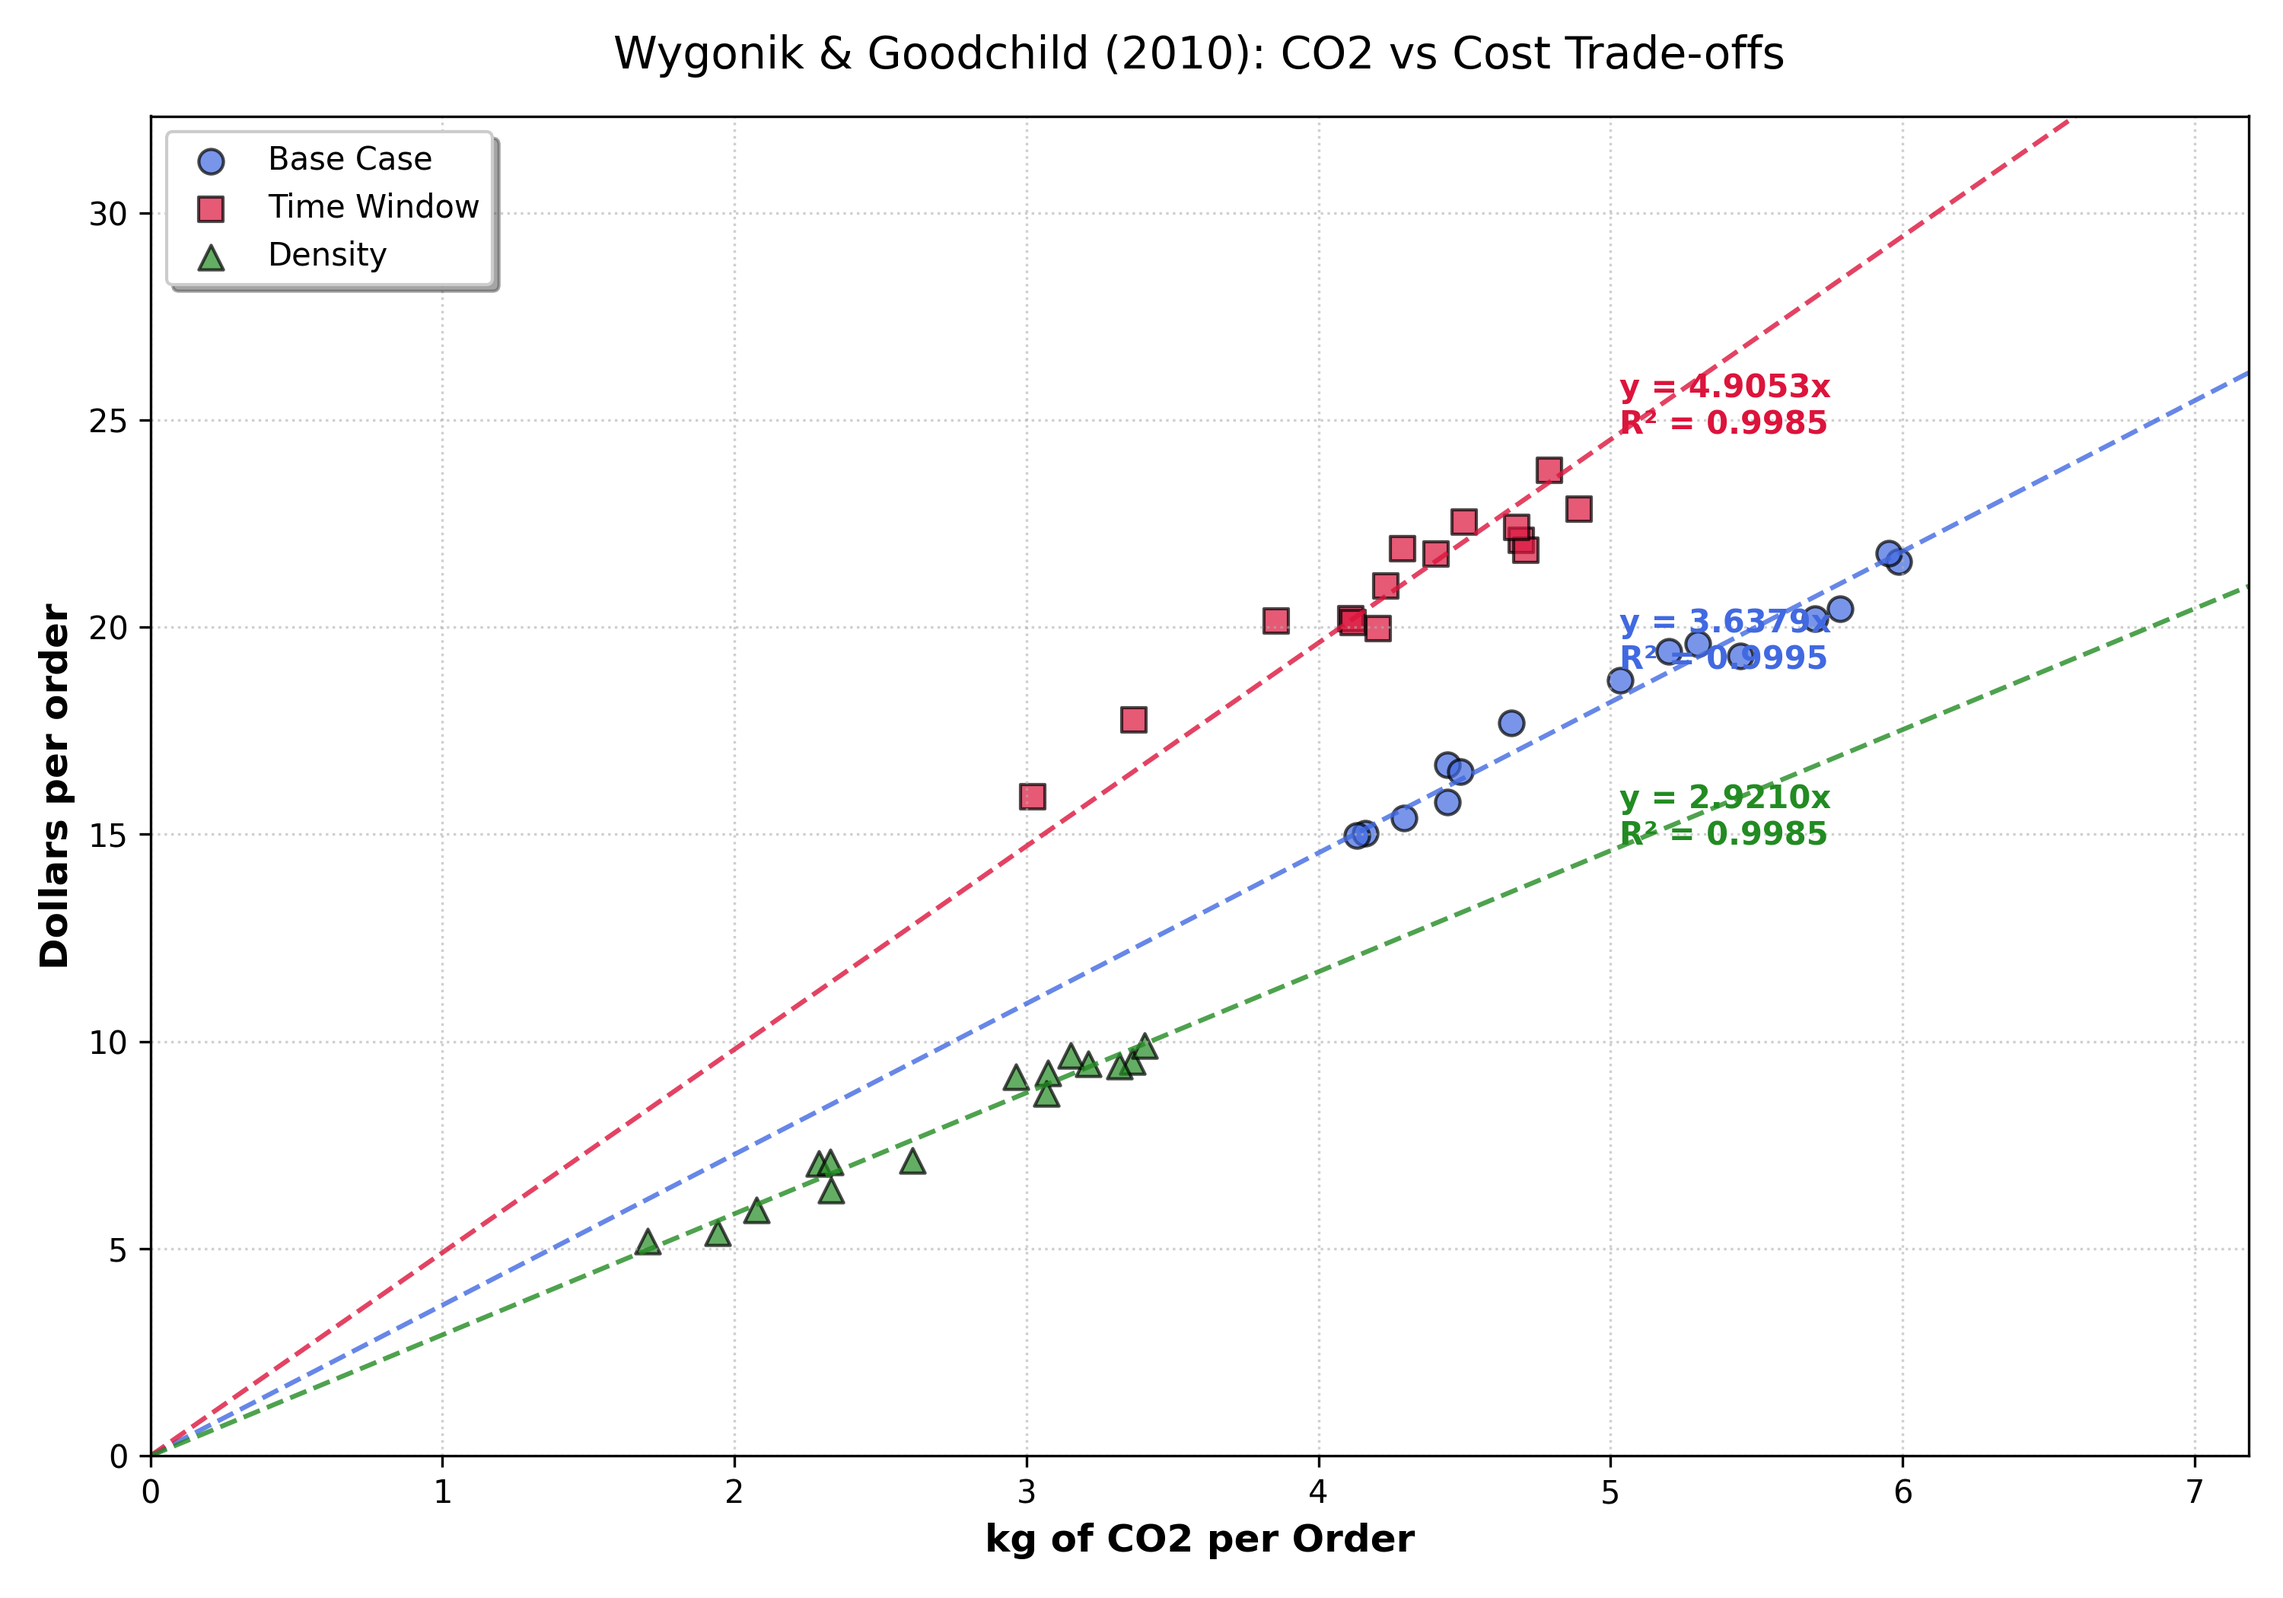
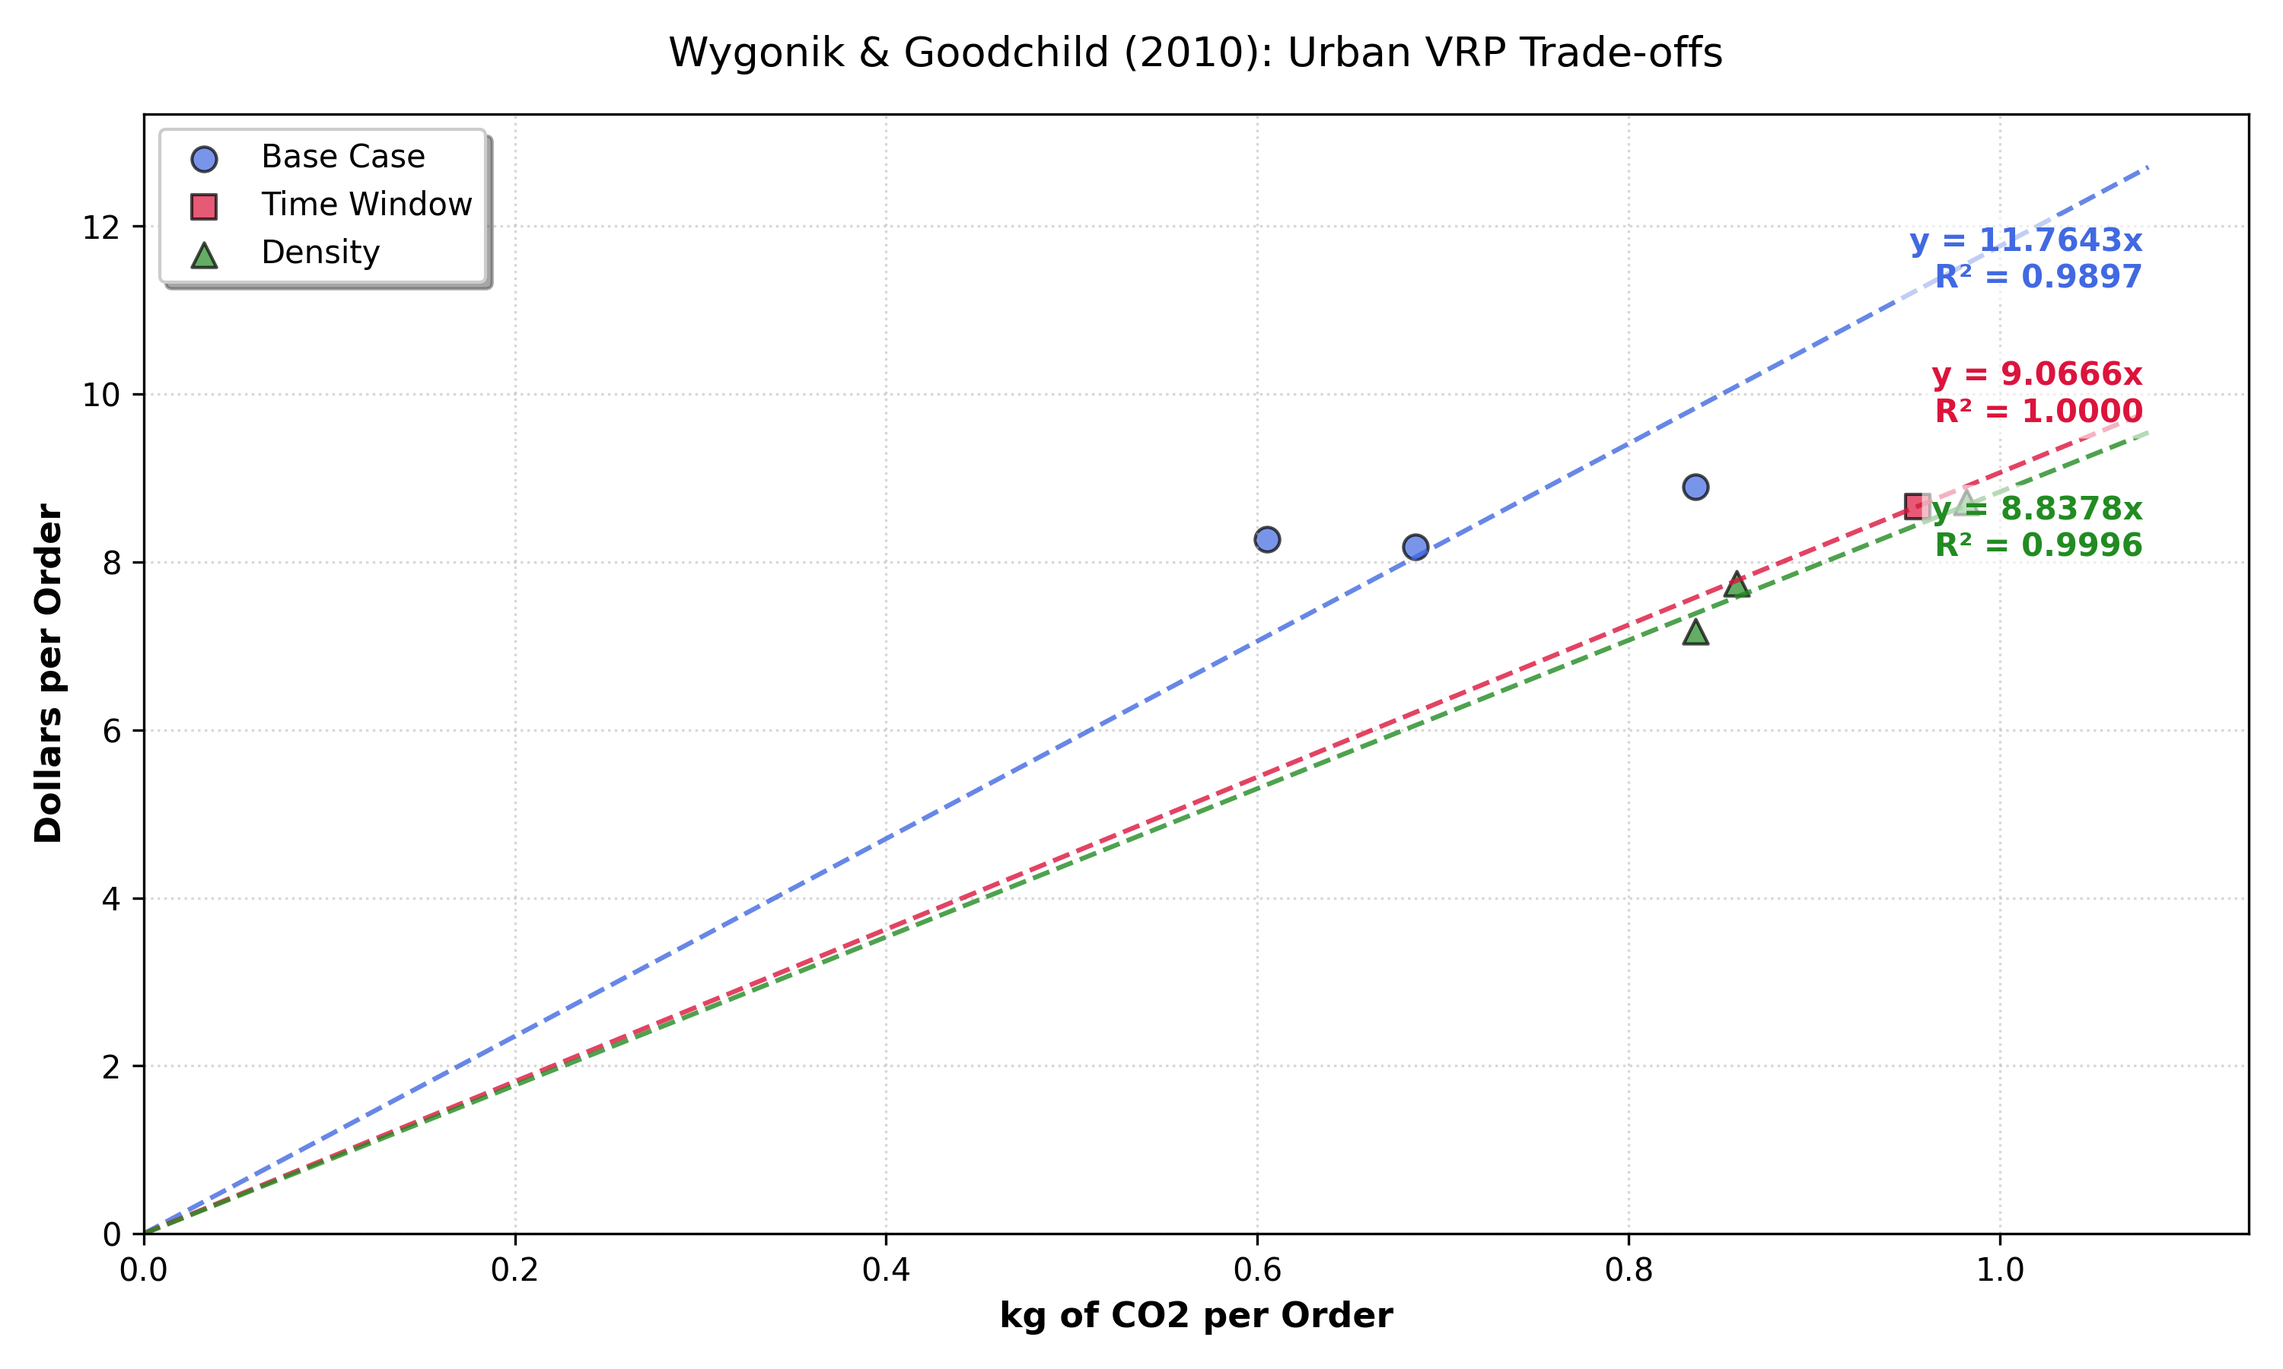
sửa

diff --git a/city_vrp_arcgis/lop_2_network_analyst/dijkstra_ma_tran_od.py b/city_vrp_arcgis/lop_2_network_analyst/dijkstra_ma_tran_od.py
@@ -175,18 +175,16 @@ def tao_ma_tran_od_bang_dijkstra(
     GIAI ĐOẠN 1 (ArcGIS Clone): Dijkstra chạy MỘT LẦN DUY NHẤT để xây dựng
     2 Ma trận OD tĩnh N×N. Tabu Search sau đó chỉ tra cứu 2 mảng này.
 
-    LUỒNG XỬ LÝ:
+    LUỒNG XỬ LÝ (TỐI ƯU HIỆU NĂNG):
     ┌─────────────────────────────────────────────────────────┐
-    │  For i in range(N):                                     │
-    │    For j in range(N):                                   │
-    │      1. Dijkstra(node_i → node_j) → danh_sach_node     │
-    │      2. Tích lũy chiều dài (m) và thời gian (s)        │
-    │      3. Tính chi_phi = hao_mon + luong_tai_xe           │
-    │      4. Tính khi_thai_goc = quang_duong × he_so_MOVES  │
-    │  END Dijkstra (vòng lặp kết thúc hoàn toàn)            │
+    │  For i, node_nguon in enumerate(N):                     │
+    │    1. Single-Source Dijkstra(nguon_i → ALL)             │
+    │       -> Trả về từ điển paths_dict                      │
     │                                                         │
-    │  SAU ĐÓ (ngoài vòng lặp Dijkstra):                     │
-    │    ma_tran_khi_thai_xe = ma_tran_goc × he_so_xe        │
+    │    For j, node_dich in enumerate(N):                    │
+    │      2. Trích xuất đường đi từ paths_dict[node_dich]    │
+    │      3. Tính toán chi phí, khí thải (Logic bóc tách)    │
+    │  End Dijkstra (Tổng cộng N lần gọi thuật toán)         │
     └─────────────────────────────────────────────────────────┘
 
     Tham số:
@@ -220,24 +218,32 @@ def tao_ma_tran_od_bang_dijkstra(
     # VÒNG LẶP DÒ ĐƯỜNG DIJKSTRA
     # (Toàn bộ vòng lặp này PHẢI chạy xong trước khi nhân hệ số xe)
     # ═══════════════════════════════════════════════════════════
-    for i in range(so_diem):
-        for j in range(so_diem):
-            dem += 1
+    # ═══════════════════════════════════════════════════════════
+    # VÒNG LẶP DÒ ĐƯỜNG DIJKSTRA (Nguồn -> Nhiều Đích)
+    # Tối ưu: Chạy Dijkstra 1 lần cho mỗi nguồn thay vì N lần.
+    # ═══════════════════════════════════════════════════════════
+    for i, node_nguon in enumerate(danh_sach_node_osm):
+        # 1. Dijkstra Single-Source: Tìm toàn bộ đường đi từ node_nguon
+        try:
+            # lengths_dict: {node_dich: tong_thoi_gian}
+            # paths_dict:   {node_dich: [danh_sach_node_duong_di]}
+            _, paths_dict = nx.single_source_dijkstra(
+                do_thi, source=node_nguon, weight="travel_time"
+            )
+        except (nx.NodeNotFound, nx.NetworkXError):
+            continue
 
+        for j, node_dich in enumerate(danh_sach_node_osm):
+            dem += 1
             if i == j:
                 continue
 
-            node_nguon = danh_sach_node_osm[i]
-            node_dich  = danh_sach_node_osm[j]
-
             try:
-                # ── DIJKSTRA: Tìm đường ngắn nhất theo travel_time ──
-                duong_di_nodes = nx.shortest_path(
-                    do_thi,
-                    source=node_nguon,
-                    target=node_dich,
-                    weight="travel_time"
-                )
+                # 2. Trích xuất đường đi từ từ điển kết quả
+                if node_dich not in paths_dict:
+                    raise nx.NetworkXNoPath
+
+                duong_di_nodes = paths_dict[node_dich]
 
                 # ── Tích lũy chiều dài (m) và thời gian (s) qua từng cạnh ──
                 tong_chieu_dai_m = 0.0
@@ -248,18 +254,12 @@ def tao_ma_tran_od_bang_dijkstra(
                     node_tiep  = duong_di_nodes[k + 1]
                     du_lieu_canh_raw = do_thi[node_hien][node_tiep]
 
-                    # Phân biệt 2 loại đồ thị:
-                    # - MultiDiGraph (OSMnx): du_lieu_canh_raw = {0: {attrs}, 1: {attrs}, ...}
-                    #   → giá trị là dict thuộc tính → dùng .values() để lấy
-                    # - DiGraph (đồ thị dự phòng): du_lieu_canh_raw = {attrs} trực tiếp
-                    #   → giá trị là scalar (float/str) → dùng như dict thông thường
                     if isinstance(do_thi, nx.MultiDiGraph):
                         canh_tot_nhat = min(
                             du_lieu_canh_raw.values(),
                             key=lambda c: c.get("travel_time", float("inf"))
                         )
                     else:
-                        # DiGraph: lấy thuộc tính trực tiếp từ dict cạnh
                         canh_tot_nhat = du_lieu_canh_raw
 
                     tong_chieu_dai_m += canh_tot_nhat.get("length", 0)
@@ -275,21 +275,16 @@ def tao_ma_tran_od_bang_dijkstra(
                 else:
                     toc_do_tb_kmh = TOC_DO_MAC_DINH_KM_H
 
-                # Làm tròn tới bội số 10 gần nhất, kẹp trong [20, 120]
                 toc_do_tra_bang = max(20, min(120, round(toc_do_tb_kmh / 10) * 10))
                 he_so_khi_thai_moves = bang_moves.get(
                     toc_do_tra_bang, HANG_SO_KHI_THAI_MAC_DINH
                 )
 
-                # ── Tính chi phí (USD) ──
-                # = Hao mòn + Lương tài xế (lương là biến ĐỘC LẬP, không nhân hệ số xe)
+                # ── Tính chi phí & khí thải ──
                 chi_phi_hao_mon_usd = tong_chieu_dai_km * chi_phi_hao_mon_per_km
                 chi_phi_luong_usd   = tong_thoi_gian_gio * luong_tai_xe_usd_per_gio
                 tong_chi_phi_usd    = chi_phi_hao_mon_usd + chi_phi_luong_usd
-
-                # ── Tính khí thải gốc (gram CO2) ──
-                # CHƯA nhân hệ số loại xe — sẽ nhân NGOÀI vòng lặp này
-                khi_thai_goc_gram = tong_chieu_dai_km * he_so_khi_thai_moves
+                khi_thai_goc_gram   = tong_chieu_dai_km * he_so_khi_thai_moves
 
                 # ── Ghi vào ma trận ──
                 ma_tran_chi_phi[i][j]        = tong_chi_phi_usd
@@ -298,17 +293,15 @@ def tao_ma_tran_od_bang_dijkstra(
                 ma_tran_quang_duong_km[i][j]  = tong_chieu_dai_km
 
             except (nx.NetworkXNoPath, nx.NodeNotFound):
-                in_canh_bao(f"  [!] Không tìm được đường: {i}→{j}, gán ∞")
                 ma_tran_chi_phi[i][j]        = 1e9
                 ma_tran_khi_thai_goc[i][j]   = 1e9
                 ma_tran_thoi_gian_giay[i][j] = 1e9
                 ma_tran_quang_duong_km[i][j]  = 1e9
 
-            # Hiển thị tiến trình mỗi 10%
-            if dem % max(1, tong_cap // 10) == 0:
-                phan_tram = dem / tong_cap * 100
-                from giao_dien.terminal_ui import in_tien_trinh
-                in_tien_trinh(phan_tram, f"Dijkstra: {dem}/{tong_cap} cặp")
+        # Hiển thị tiến trình theo node nguồn (i)
+        phan_tram = (i + 1) / so_diem * 100
+        from giao_dien.terminal_ui import in_tien_trinh
+        in_tien_trinh(phan_tram, f"Dijkstra: Nguon {i+1}/{so_diem}")
 
     # Xuống dòng sau thanh tiến trình
     print()

diff --git a/truc_quan_hoa.py b/truc_quan_hoa.py
@@ -38,17 +38,15 @@ def ve_do_thi_phan_tan_khoa_hoc():
         return
 
     # Chuẩn hóa về đơn vị "Per Order"
-    # X: kg of CO2 per Order
-    # Y: Dollars per order
     df['CO2_per_Order'] = df['Khi_Thai'] / df['So_Khach']
     df['USD_per_Order'] = df['Chi_Phi'] / df['So_Khach']
 
-    # Nếu không có cột Kich_Ban, gán mặc định là Base Case
     if 'Kich_Ban' not in df.columns:
         df['Kich_Ban'] = 'Base Case'
 
-    # 2. Cấu hình biểu đồ
-    plt.figure(figsize=(10, 7))
+    # 2. Khởi tạo Figure và Axes (Kích thước chuẩn 10x6)
+    fig, ax = plt.subplots(figsize=(10, 6))
+    
     styles = {
         'Base Case':   {'color': 'royalblue',   'marker': 'o', 'label': 'Base Case'},
         'Time Window': {'color': 'crimson',     'marker': 's', 'label': 'Time Window'},
@@ -57,55 +55,61 @@ def ve_do_thi_phan_tan_khoa_hoc():
 
     scenarios = df['Kich_Ban'].unique()
     
-    max_x = df['CO2_per_Order'].max() * 1.2 if not df.empty else 8.0
+    # Tính toán giới hạn trục X để vẽ đường xu hướng
+    max_x = df['CO2_per_Order'].max() * 1.1 if not df.empty else 8.0
     
-    for scen in scenarios:
+    for i, scen in enumerate(scenarios):
         if scen not in styles: continue
         
         sub_df = df[df['Kich_Ban'] == scen]
         x_data = sub_df['CO2_per_Order']
         y_data = sub_df['USD_per_Order']
         
-        # Vẽ các điểm phân tán
-        plt.scatter(x_data, y_data, 
+        # A. Vẽ các điểm phân tán (Scatter)
+        ax.scatter(x_data, y_data, 
                     color=styles[scen]['color'], 
                     marker=styles[scen]['marker'], 
                     alpha=0.7, s=60, edgecolors='k',
                     label=f"{scen}")
 
-        # Tính toán và vẽ đường xu hướng y = ax
+        # B. Tính toán và vẽ đường hồi quy y = ax
         a, r2 = tinh_hoi_quy_qua_goc_0(x_data, y_data)
-        
         x_trend = np.linspace(0, max_x, 100)
         y_trend = a * x_trend
         
-        plt.plot(x_trend, y_trend, 
+        ax.plot(x_trend, y_trend, 
                  color=styles[scen]['color'], 
                  linestyle='--', linewidth=1.5, alpha=0.8)
 
-        # Hiển thị phương trình và R2 lên biểu đồ
-        # Vị trí text lấy theo điểm cuối của đường xu hướng
-        plt.text(max_x * 0.7, a * max_x * 0.7 + random.uniform(-1, 1), 
-                 f"y = {a:.4f}x\nR² = {r2:.4f}", 
-                 color=styles[scen]['color'], fontsize=10, fontweight='bold')
+        # C. Định vị Text phương trình bằng hệ tọa độ tương đối (Axes Fraction)
+        # 0.95 là lề phải, y_pos giảm dần để không đè nhau
+        y_pos = 0.90 - (i * 0.12)
+        ax.text(0.95, y_pos, f"y = {a:.4f}x\nR² = {r2:.4f}", 
+                 transform=ax.transAxes, 
+                 verticalalignment='top', 
+                 horizontalalignment='right',
+                 color=styles[scen]['color'], 
+                 fontsize=10, fontweight='bold',
+                 bbox=dict(facecolor='white', alpha=0.6, edgecolor='none', boxstyle='round,pad=0.3'))
 
-    # 3. Định dạng trục và Trình bày
-    plt.xlabel("kg of CO2 per Order", fontsize=12, fontweight='bold')
-    plt.ylabel("Dollars per order", fontsize=12, fontweight='bold')
-    plt.title("Wygonik & Goodchild (2010): CO2 vs Cost Trade-offs", fontsize=14, pad=15)
+    # 3. Định dạng trục và Trình bày khoa học
+    ax.set_xlabel("kg of CO2 per Order", fontsize=11, fontweight='bold')
+    ax.set_ylabel("Dollars per Order", fontsize=11, fontweight='bold')
+    ax.set_title("Wygonik & Goodchild (2010): Urban VRP Trade-offs", fontsize=13, pad=15)
     
-    # Bắt đầu từ gốc tọa độ (0,0)
-    plt.xlim(0, max_x)
-    plt.ylim(0, max_x * 4.5) # Ước lượng dải Y dựa trên slope trung bình ~3.5
+    # Sử dụng Autoscale nhưng giữ gốc tọa độ (0,0)
+    ax.set_xlim(left=0)
+    ax.set_ylim(bottom=0)
     
-    plt.grid(True, linestyle=':', alpha=0.6)
-    plt.legend(loc='upper left', frameon=True, shadow=True)
+    ax.grid(True, linestyle=':', alpha=0.5)
+    ax.legend(loc='upper left', frameon=True, shadow=True)
     
+    # Chống vỡ layout
     plt.tight_layout()
     
     output_img = "city_vrp_arcgis/du_lieu/bieu_do_phan_tan.png"
     plt.savefig(output_img, dpi=300)
-    print(f"--- Hoan thanh! Bieu do da duoc luu tai: {output_img} ---")
+    print(f"--- Hoan thanh! Bieu do đa duoc luu tai: {output_img} ---")
     plt.show()
 
 import random # Cần cho vị trí text ngẫu nhiên tránh đè nhau

diff --git a/city_vrp_arcgis/main.py b/city_vrp_arcgis/main.py
@@ -30,13 +30,13 @@ from giao_dien.terminal_ui import (
 # =============================================================================
 CAU_HINH = {
     "ten_thanh_pho": "Vinh, Nghe An, Vietnam",
-    "ban_kinh_m":    5000,
+    "ban_kinh_m":    6000,
     "so_xe":         17,
-    "tai_trong_max": 90,
-    "luong_tai_xe":  26.55,  # USD/gio
+    "tai_trong_max": 80,
+    "luong_tai_xe":  25.55,
     "he_so_mo_phong_hybrid": 0.6,
     "vong_lap_tabu": 300,
-    "ten_kich_ban":  "Base Case" # Kich ban cho do thi phan tan
+    "ten_kich_ban":  "Density"
 }
 
 def chay_he_thong():

diff --git a/city_vrp_arcgis/du_lieu/sinh_du_lieu_mau.py b/city_vrp_arcgis/du_lieu/sinh_du_lieu_mau.py
@@ -18,7 +18,7 @@ def sinh_du_lieu_mau():
         co2_per_order = random.uniform(4.0, 6.0)
         usd_per_order = co2_per_order * 3.7 + random.uniform(-1, 1)
         data_points.append([
-            "2026-04-16 08:00:00", "Vinh", so_khach, 0.5, 0.5,
+            "2026-04-16 08:00:00", "Vinh, Viet Nam", so_khach, 0.5, 0.5,
             round(usd_per_order * so_khach, 2),
             round(co2_per_order * so_khach, 2),
             "Base Case"
